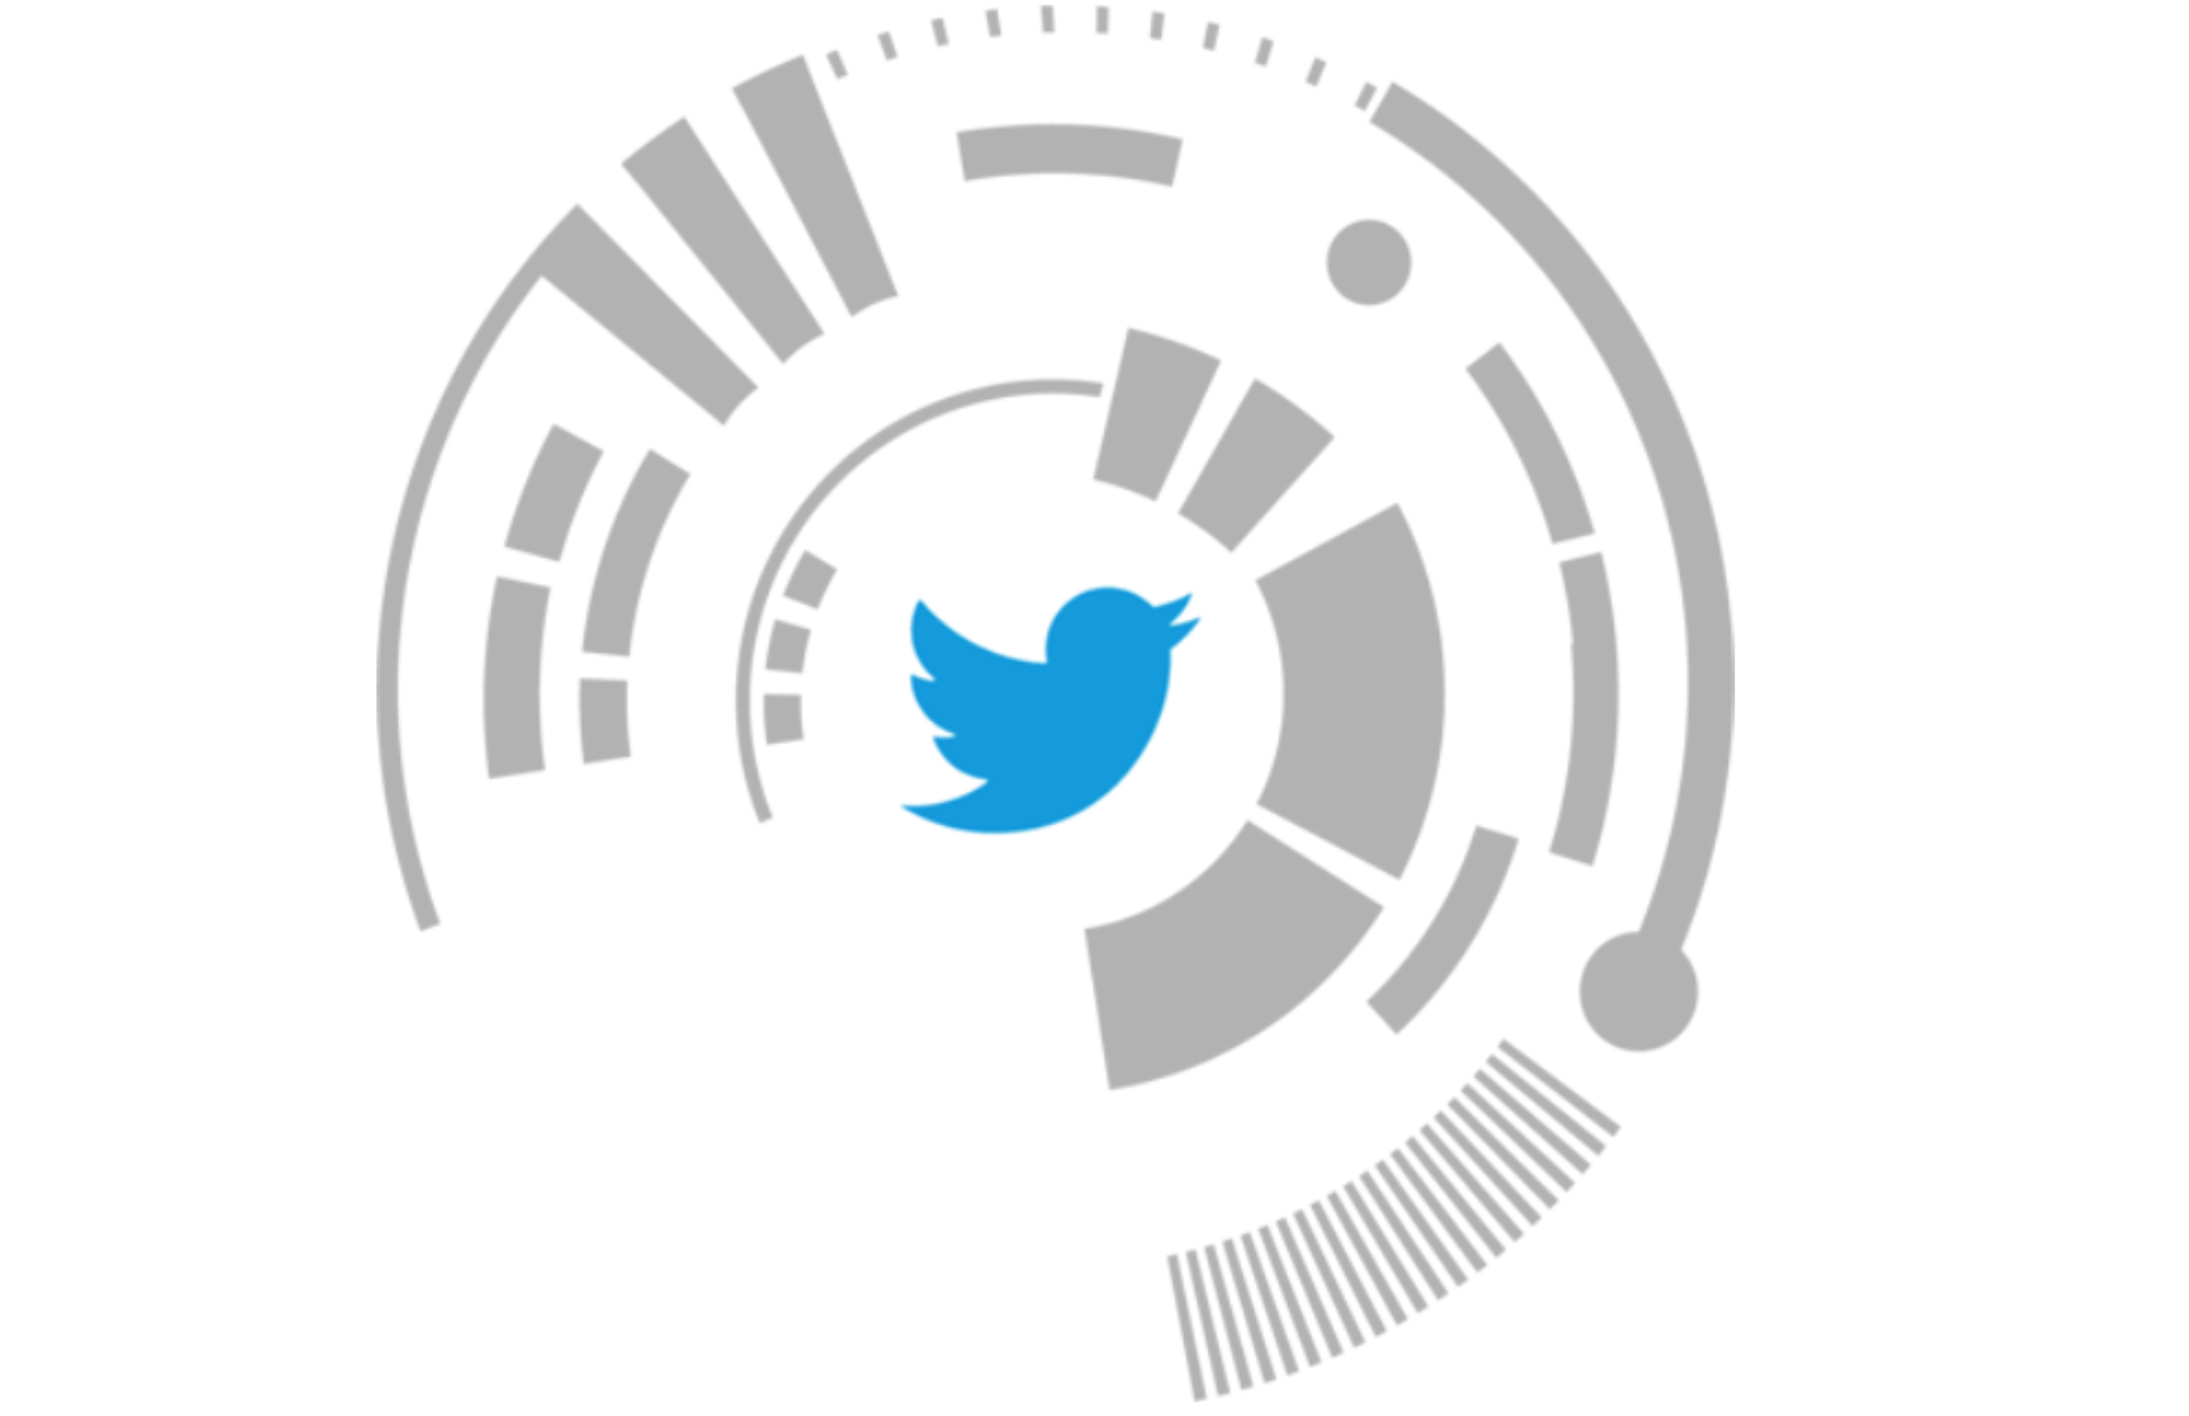
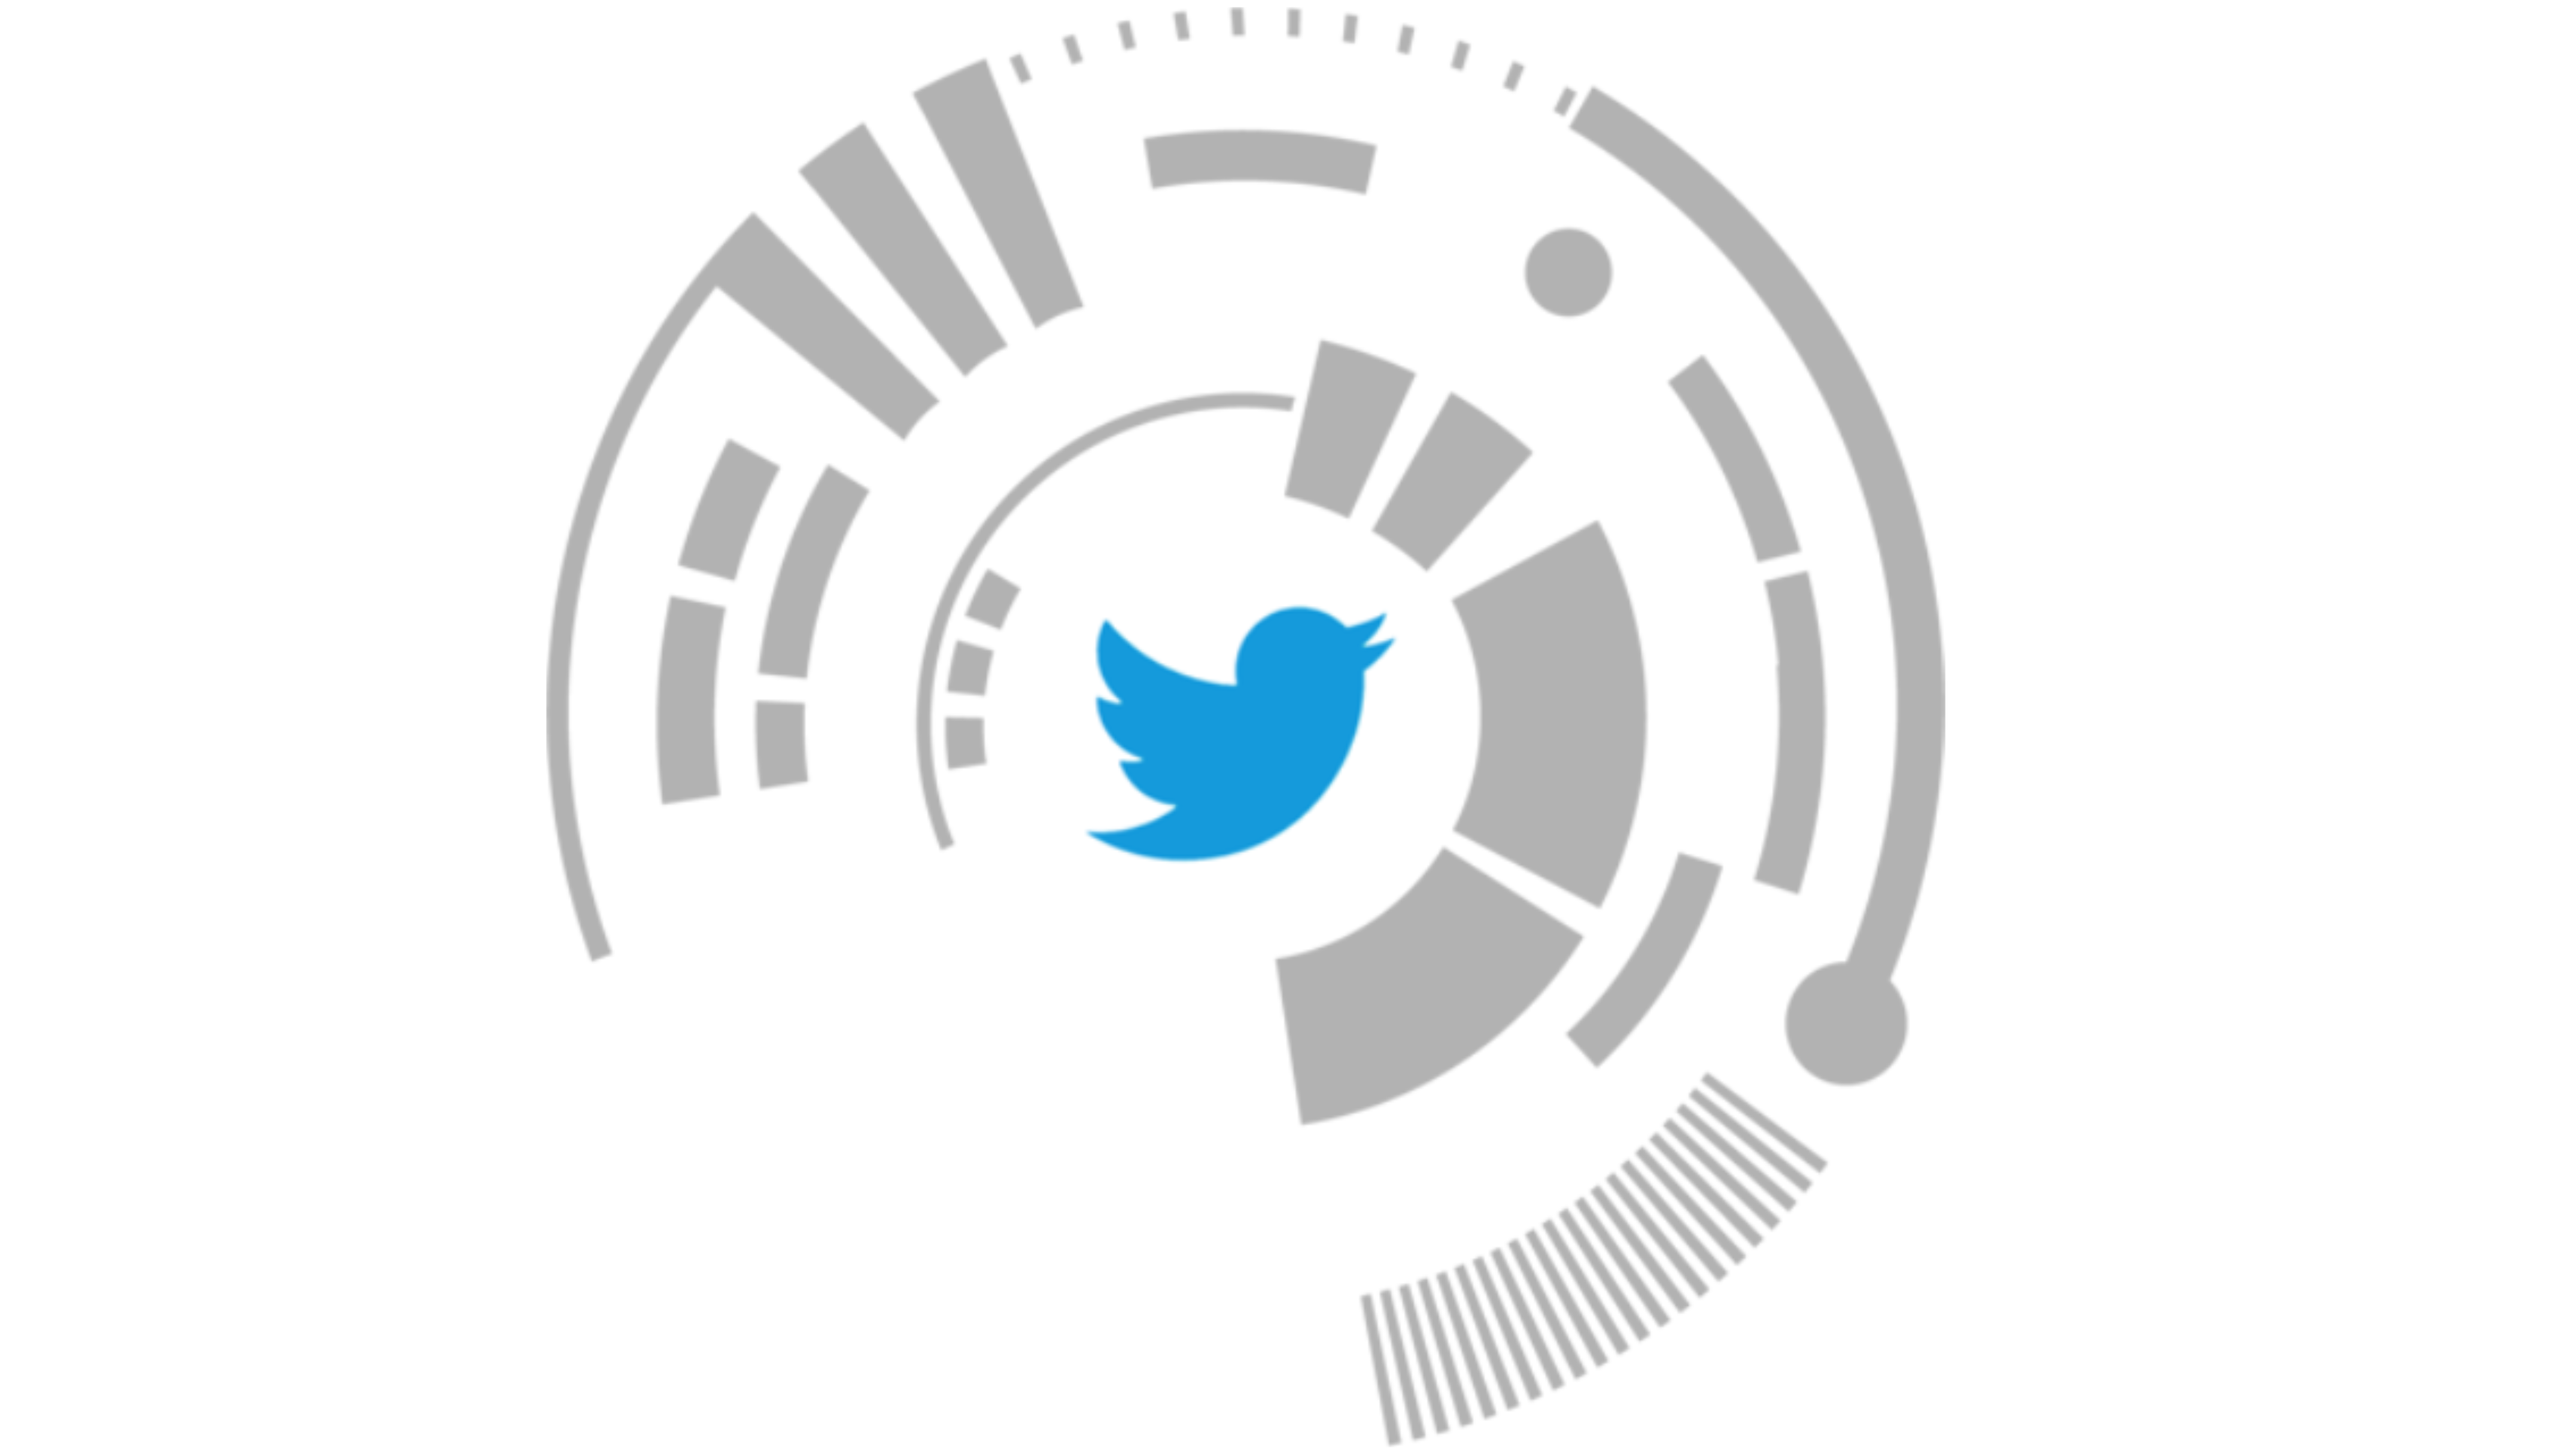
almost done

diff --git a/index.html b/index.html
@@ -1,5 +1,5 @@
 <!DOCTYPE html>
-<html lang="en">
+<html lang="en" style="background-color: #222222;">
 
 <head>
   <meta charset="utf-8">
@@ -160,7 +160,7 @@
 
         <div class="row">
           
-          <div id = "aboutWords" class="col-xl-6 col-lg-5 pt-5 pt-lg-0">
+          <div id = "aboutWords" class="col-xl-4 col-lg-5 pt-5 pt-lg-0">
 
 
             <div class="icon-box" data-aos="fade-up" data-aos-delay="100">
@@ -178,8 +178,8 @@
             
 
           </div>
-          <div class="col-xl-6 col-lg-7" data-aos="fade-right">
-            <img src="assets/img/mainLogo.png" class="img-fluid" alt="">
+          <div class="col-xl-8 col-lg-7 aboutPic" data-aos="fade-right">
+            <img src="assets/img/mainLogoLarge.png" class="img-fluid" alt="">
           </div>
 
         </div>
@@ -239,18 +239,37 @@
         <div class="row mt-5 justify-content-center" data-aos="fade-up">
           <div class="col-lg-10">
             <form action="forms/contact.php" method="post" role="form" class="php-email-form">
-              <div class="row">
-                <div class="col-md-6 form-group">
-                  <input type="text" name="name" class="form-control" id="name" placeholder="Your Name" required>
+              
+               
+              <div class="form-group mt-3">
+                Name*  
+                <input type="text" name="name" class="form-control" id="name" placeholder="Your Name" required>
                 </div>
-                <div class="col-md-6 form-group mt-3 mt-md-0">
+
+                <div class="form-group mt-3">
+                  Email*
                   <input type="email" class="form-control" name="email" id="email" placeholder="Your Email" required>
                 </div>
-              </div>
+
+                <div class="form-group mt-3">
+                  OS*
+                  <input type="text" name="os" class="form-control" id="name" placeholder="OS" required>
+                </div>
+                
+                
+                <div class="form-group mt-3">
+                  Game*
+                  <input type="text" class="form-control" name="game" id="game" placeholder="Game" required>
+                </div>
+              
+
               <div class="form-group mt-3">
+                Subject*
                 <input type="text" class="form-control" name="subject" id="subject" placeholder="Subject" required>
               </div>
+
               <div class="form-group mt-3">
+                Message*
                 <textarea class="form-control" name="message" rows="5" placeholder="Message" required></textarea>
               </div>
               <div class="my-3">
@@ -277,18 +296,20 @@
 
 
 
-      <div class="copyright">
-         Copyright &copy; 2021 STARSHIP ENGINEERING. All Rights Reserved. <strong><span>Maxim</span></strong>. All Rights Reserved
+      <div class="copyright col-lg-6">
+         Copyright &copy; 2021 <strong><span>STARSHIP ENGINEERING</span></strong>. All Rights Reserved.
       </div>
-      <div class="col-lg-2 col-md-6 footer-links">
+
+      <div class="footlist col-lg-6">
         <ul>
           <a href="#newHero">Home |</a>
-          <a href="#">About us |</a>
-          <a href="#">Services |</a>
-          <a href="#">Terms of service |</a>
-          <a href="#">Privacy policy</a>
+          <a href="#features">Games |</a>
+          <a href="#aboure">About |</a>
+          <a href="#services">Connect |</a>
+          <a href="#contact">Support</a>
         </ul>
       </div>
+
     </div>
   </footer><!-- End Footer -->
 

diff --git a/assets/css/style.css b/assets/css/style.css
@@ -8,6 +8,7 @@
 /*--------------------------------------------------------------
 # General
 --------------------------------------------------------------*/
+
 body {
   font-family: "Open Sans", sans-serif;
   color: #444444;
@@ -589,23 +590,19 @@ section {
 }
 
 .about .icon-box h4 {
-  font-size: 100px;
+  font-size: 70px;
   font-weight: 500;
-  margin-left: 60px;
+ ;
   color: white;
 }
 
 .about .icon-box p {
-  font-size: 15px;
+  font-size: 20px;
   color: white;
-  margin-left: 60px;
+
 }
 
 
-#aboutWords
-{
-  margin-top: 10%;
-}
 
 /*--------------------------------------------------------------
 # Steps
@@ -1294,6 +1291,7 @@ section {
 --------------------------------------------------------------*/
 .contact{
   background-color: black;
+  color: white;
 }
 
 .contact .info {
@@ -1367,8 +1365,8 @@ section {
 
 .contact .php-email-form {
   width: 100%;
-  padding: 30px;
-  background: #fff;
+  padding: 0 30px 30px 30px;
+  background: black;
   box-shadow: 0 0 24px 0 rgba(0, 0, 0, 0.12);
 }
 
@@ -1378,7 +1376,7 @@ section {
 
 .contact .php-email-form .error-message {
   display: none;
-  color: #fff;
+  color: white;
   background: #ed3c0d;
   text-align: left;
   padding: 15px;
@@ -1468,16 +1466,12 @@ section {
 --------------------------------------------------------------*/
 #footer {
   background: #222222;
-  padding: 0 0 30px 0;
+  padding: 30px 0px 30px 0px;
   color: #fff;
   font-size: 14px;
 }
 
-#footer .footer-top {
-  background: #0c1817;
-  border-bottom: 1px solid #18302c;
-  padding: 60px 0 30px 0;
-}
+
 
 #footer .footer-top .footer-info {
   margin-bottom: 30px;
@@ -1499,23 +1493,10 @@ section {
   color: #fff;
 }
 
-#footer .footer-top .social-links a {
-  font-size: 18px;
-  display: inline-block;
-  background: #1c3733;
-  color: #fff;
-  line-height: 1;
-  padding: 8px 0;
-  margin-right: 4px;
-  border-radius: 50%;
-  text-align: center;
-  width: 36px;
-  height: 36px;
-  transition: 0.3s;
-}
+
 
 #footer .footer-top .social-links a:hover {
-  background: #1bac91;
+ 
   color: #fff;
   text-decoration: none;
 }
@@ -1540,15 +1521,15 @@ section {
 
 #footer .footer-top .footer-links ul i {
   padding-right: 2px;
-  color: #4ae3c6;
+  color: black;
   font-size: 18px;
   line-height: 1;
 }
 
 #footer .footer-top .footer-links ul li {
-  padding: 10px 0;
+
   display: flex;
-  align-items: center;
+  
 }
 
 #footer .footer-top .footer-links ul li:first-child {
@@ -1563,13 +1544,13 @@ section {
 }
 
 #footer .footer-top .footer-links ul a:hover {
-  color: #34dfbf;
+  color: black;
 }
 
 #footer .footer-top .footer-newsletter form {
   margin-top: 30px;
-  background: #fff;
-  padding: 6px 10px;
+  background: black;
+ 
   position: relative;
   border-radius: 4px 0 0 4px;
 }
@@ -1589,24 +1570,29 @@ section {
   background: none;
   font-size: 16px;
   padding: 0 20px;
-  background: #1bac91;
+  background: black;
   color: #fff;
   transition: 0.3s;
   border-radius: 0 4px 4px 0;
 }
 
 #footer .footer-top .footer-newsletter form input[type="submit"]:hover {
-  background: #14806c;
+  background: black;
 }
 
 #footer .copyright {
-  text-align: center;
-  padding-top: 30px;
+ float: left;
+}
+
+#footer .footlist {
+  float: right;
+  text-align: right;
+  
 }
 
 #footer .credits {
   padding-top: 10px;
   text-align: center;
   font-size: 13px;
-  color: #fff;
+  color: black;
 }
